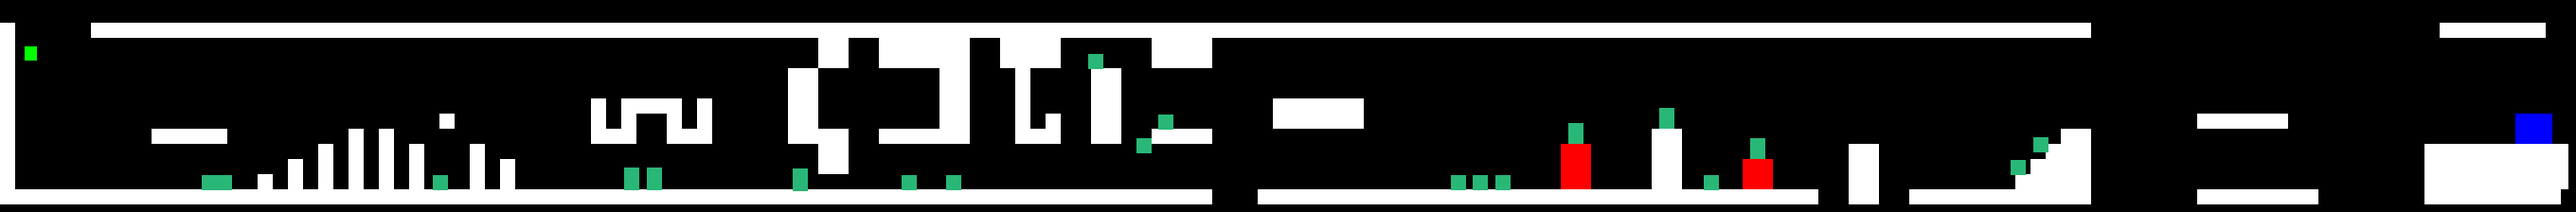
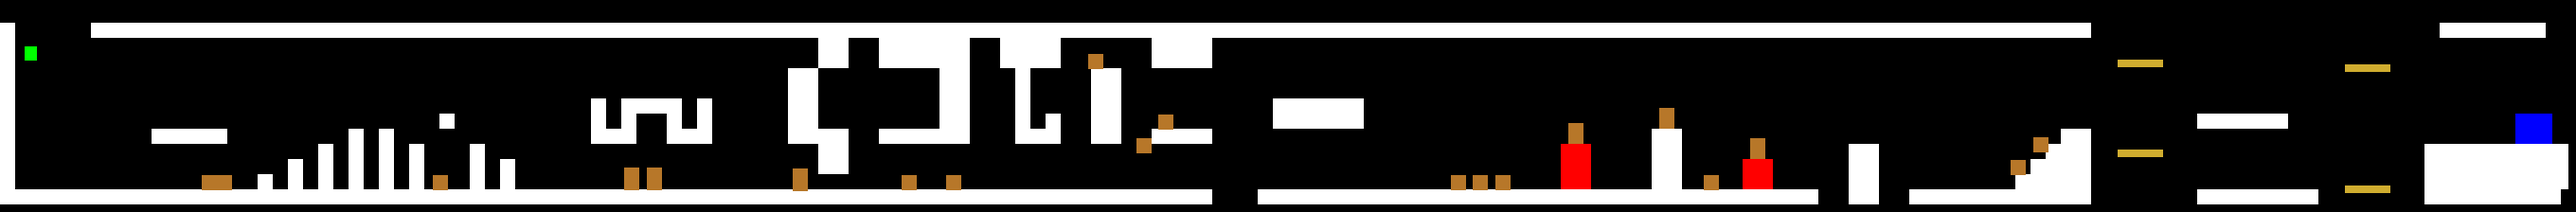
All platforms are included in the json file

diff --git a/Collision_Data/main.cpp b/Collision_Data/main.cpp
@@ -31,7 +31,7 @@ JSONCONS_ALL_MEMBER_TRAITS(magic_bean_t, x, y, height, width, x_exit, y_exit);
 int main(int argc, char* argv[]) {
 	if (argc != 2) return 0;
 
-	std::string level_path = "\\Niveau_6_3";
+	std::string level_path = "\\Niveau_1_2";
 	std::string sprite_path = "\\Sprite";
 	std::string base_path = argv[1];
 	std::string level_image_path = base_path + level_path + "\\level.png";
@@ -186,6 +186,7 @@ int main(int argc, char* argv[]) {
 	// We detect all the platform first and after that we try to put them to the right type.
 	std::vector<collision_t> raw_platforms;
 	for (const cv::Mat& platform_texture : platforms_textures) {
+		
 		cv::Mat hits;
 		cv::matchTemplate(level_image, platform_texture, hits, cv::TM_CCOEFF_NORMED);
 		for (int x = 0; x < hits.rows - 8; x++)
@@ -283,16 +284,14 @@ int main(int argc, char* argv[]) {
 			}
 		}
 	}
-
+	std::vector<flimsy_lift_t> flimsy_lifts;
 	std::sort(raw_platforms.begin(), raw_platforms.end(), comp_lift);
 	int id = 0;
 	std::ifstream is(base_path + "\\plateformLimit.json");
 	json json_content = json::parse(is);
 	json platformsInfo = json_content[level_path.substr(level_path.length() - 3, 3)];
-	std::vector<flimsy_lift_t> flimsy_lifts;
 	for(const collision_t& lift : raw_platforms)
 	{
-		std::cout << "Le x :  " << lift.x << std::endl;
 		// On check leur valeur dans le fichier json.
 		if(platformsInfo[id]["flimsy"].as_bool())
 		{
@@ -305,7 +304,6 @@ int main(int argc, char* argv[]) {
 		}
 		id++;
 	}
-
 	
 
 	// We now check if their is a magic beans inside the level.
@@ -325,7 +323,6 @@ int main(int argc, char* argv[]) {
 
 	if(!magic_beans.empty()) // We have found a magic beans inside the level !
 	{
-		std::cout << "Slt je suis la !" << std::endl;
 		int height = -1;
 		int x_min = 100000;
 		int x_max = -1;

diff --git a/Collision_Data/Readme.md b/Collision_Data/Readme.md
@@ -27,3 +27,4 @@ In order to make our program work we had to make some modifications on the level
 
 For the platforms:
 -axe 1 means vertical and 0 means horizontal.
+-If both limits are equal to -1 it means that the platforms are endless. So in this case axis 1 means that they go from top to bottom, and 0 from bottom to top.
